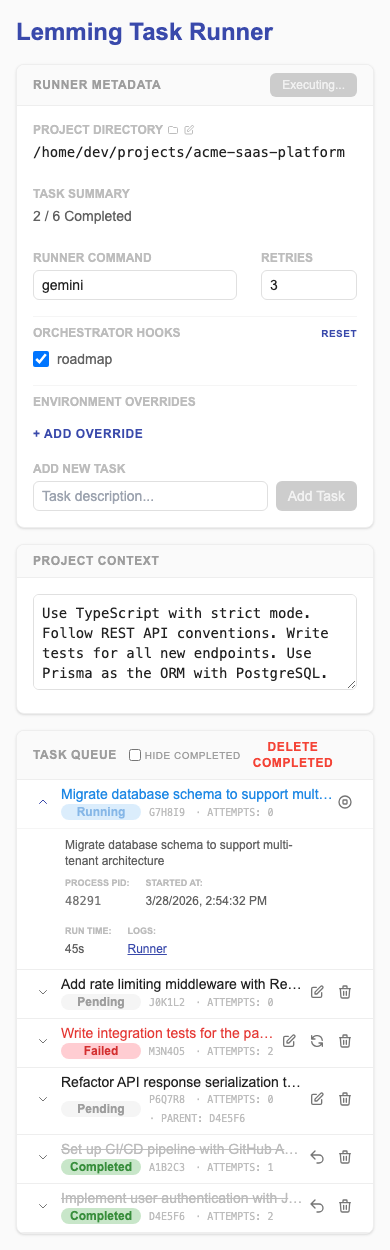
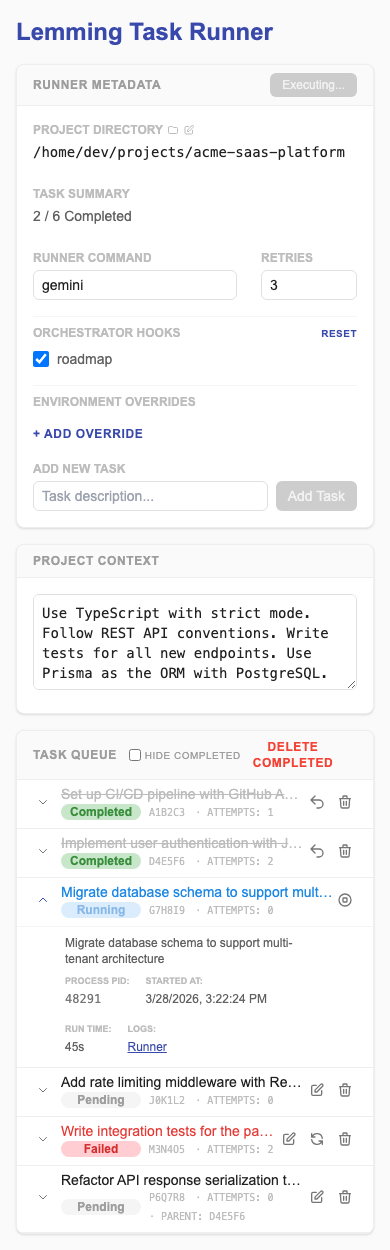
Fix: Revert task sorting to group uncompleted first (newer first) and then completed (newer first)

diff --git a/tests/web/dashboard.test.js b/tests/web/dashboard.test.js
@@ -48,12 +48,7 @@ const createInitialState = (overrides = {}) => {
     },
     filteredTasks: $computed(() => {
       const ts = tasks;
-      const inProgress = ts.filter((t) => t.status === "in_progress");
-      const pending = ts.filter((t) => t.status === "pending");
-      const completed = ts
-        .filter((t) => t.status === "completed" && !hideCompleted)
-        .sort((a, b) => (a.completed_at || 0) - (b.completed_at || 0));
-      return [...inProgress, ...pending, ...completed];
+      return ts.filter((t) => t.status !== "completed" || !hideCompleted);
     }),
     ...overrides,
   };
@@ -63,16 +58,12 @@ const $computed = (fn) => fn();
 
 describe("Lemming Web Dashboard", () => {
   test("tasks are sorted correctly", async () => {
+    // These should be passed in the order the backend would return them:
+    // Uncompleted (newer first), then Completed (newest completion first).
     const tasks = [
-      {
-        id: "c1",
-        description: "Oldest Completed",
-        status: "completed",
-        completed_at: 1000,
-        outcomes: [],
-      },
-      { id: "p1", description: "Pending 1", status: "pending", outcomes: [] },
+      { id: "p2", description: "Pending 2", status: "pending", outcomes: [] },
       { id: "r1", description: "Running", status: "in_progress", outcomes: [] },
+      { id: "p1", description: "Pending 1", status: "pending", outcomes: [] },
       {
         id: "c2",
         description: "Newest Completed",
@@ -80,7 +71,13 @@ describe("Lemming Web Dashboard", () => {
         completed_at: 2000,
         outcomes: [],
       },
-      { id: "p2", description: "Pending 2", status: "pending", outcomes: [] },
+      {
+        id: "c1",
+        description: "Oldest Completed",
+        status: "completed",
+        completed_at: 1000,
+        outcomes: [],
+      },
     ];
 
     const renderer = new Renderer(
@@ -103,11 +100,12 @@ describe("Lemming Web Dashboard", () => {
       return p ? p.textContent.trim() : "";
     });
 
-    assert.strictEqual(descriptions[0], "Running");
-    assert.strictEqual(descriptions[1], "Pending 1");
-    assert.strictEqual(descriptions[2], "Pending 2");
-    assert.strictEqual(descriptions[3], "Oldest Completed");
-    assert.strictEqual(descriptions[4], "Newest Completed");
+    // Check they are in the order we provided
+    assert.strictEqual(descriptions[0], "Pending 2");
+    assert.strictEqual(descriptions[1], "Running");
+    assert.strictEqual(descriptions[2], "Pending 1");
+    assert.strictEqual(descriptions[3], "Newest Completed");
+    assert.strictEqual(descriptions[4], "Oldest Completed");
   });
 
   test("initial state", async () => {

diff --git a/src/lemming/web/index.js b/src/lemming/web/index.js
@@ -75,12 +75,7 @@
 
       $.filteredTasks = $.$computed(($) => {
         const ts = $.tasks;
-        const inProgress = ts.filter((t) => t.status === "in_progress");
-        const pending = ts.filter((t) => t.status === "pending");
-        const completed = ts
-          .filter((t) => t.status === "completed" && !$.hideCompleted)
-          .sort((a, b) => (a.completed_at || 0) - (b.completed_at || 0));
-        return [...inProgress, ...pending, ...completed];
+        return ts.filter((t) => t.status !== "completed" || !$.hideCompleted);
       });
 
       // --- Utilities ---

diff --git a/tests/main_test.py b/tests/main_test.py
@@ -284,13 +284,17 @@ class TestLemming(unittest.TestCase):
             main.cli, self.base_args + ["add", "Description", "-f", "desc.txt"]
         )
         self.assertEqual(result.exit_code, 1)
-        self.assertIn("Error: Cannot provide both description and --file.", result.output)
+        self.assertIn(
+            "Error: Cannot provide both description and --file.", result.output
+        )
         os.remove("desc.txt")
 
     def test_add_task_neither_error(self):
         result = self.cli_runner.invoke(main.cli, self.base_args + ["add"])
         self.assertEqual(result.exit_code, 1)
-        self.assertIn("Error: Must provide either description or --file.", result.output)
+        self.assertIn(
+            "Error: Must provide either description or --file.", result.output
+        )
 
     def test_edit_task_file(self):
         with open("new_desc.txt", "w") as f:
@@ -312,7 +316,9 @@ class TestLemming(unittest.TestCase):
             + ["edit", "12345678", "--description", "Desc", "-f", "new_desc.txt"],
         )
         self.assertEqual(result.exit_code, 1)
-        self.assertIn("Error: Cannot provide both description and --file.", result.output)
+        self.assertIn(
+            "Error: Cannot provide both description and --file.", result.output
+        )
         os.remove("new_desc.txt")
 
     def test_outcome_add_file(self):
@@ -346,7 +352,9 @@ class TestLemming(unittest.TestCase):
             + ["outcome", "add", "12345678", "Desc", "-f", "outcome.txt"],
         )
         self.assertEqual(result.exit_code, 1)
-        self.assertIn("Error: Cannot provide both outcome text and --file.", result.output)
+        self.assertIn(
+            "Error: Cannot provide both outcome text and --file.", result.output
+        )
         os.remove("outcome.txt")
 
     def test_outcome_add_neither_error(self):
@@ -354,7 +362,9 @@ class TestLemming(unittest.TestCase):
             main.cli, self.base_args + ["outcome", "add", "12345678"]
         )
         self.assertEqual(result.exit_code, 1)
-        self.assertIn("Error: Must provide either outcome text or --file.", result.output)
+        self.assertIn(
+            "Error: Must provide either outcome text or --file.", result.output
+        )
 
     def test_outcome_edit_file(self):
         data = tasks.load_tasks(self.test_tasks_file)
@@ -385,7 +395,9 @@ class TestLemming(unittest.TestCase):
             + ["outcome", "edit", "12345678", "0", "New Desc", "-f", "edited.txt"],
         )
         self.assertEqual(result.exit_code, 1)
-        self.assertIn("Error: Cannot provide both outcome text and --file.", result.output)
+        self.assertIn(
+            "Error: Cannot provide both outcome text and --file.", result.output
+        )
         os.remove("edited.txt")
 
     def test_outcome_edit_neither_error(self):
@@ -397,7 +409,9 @@ class TestLemming(unittest.TestCase):
             main.cli, self.base_args + ["outcome", "edit", "12345678", "0"]
         )
         self.assertEqual(result.exit_code, 1)
-        self.assertIn("Error: Must provide either outcome text or --file.", result.output)
+        self.assertIn(
+            "Error: Must provide either outcome text or --file.", result.output
+        )
 
     def test_reset_command(self):
         # 1. Add some state
@@ -1036,11 +1050,11 @@ class TestLemming(unittest.TestCase):
         self.assertEqual(result.exit_code, 0)
 
         # Order should be:
-        # 1. In Progress 1 (i1)
-        # 2. Pending 1 (p1)
-        # 3. Pending 2 (p2)
-        # 4. Completed 1 (c1) (earlier completed_at)
-        # 5. Completed 2 (c2) (later completed_at)
+        # 1. Pending 2 (p2) (newest uncompleted)
+        # 2. In Progress 1 (i1)
+        # 3. Pending 1 (p1)
+        # 4. Completed 2 (c2) (newest completed)
+        # 5. Completed 1 (c1)
 
         lines = [
             line.strip()
@@ -1055,7 +1069,7 @@ class TestLemming(unittest.TestCase):
                 task_ids.append(task_id)
 
         # Check expected order
-        expected_order = ["i1", "p1", "p2", "c1", "c2"]
+        expected_order = ["p2", "i1", "p1", "c2", "c1"]
         self.assertEqual(task_ids, expected_order)
 
 

diff --git a/tests/task_sorting_test.py b/tests/task_sorting_test.py
@@ -1,7 +1,7 @@
 from lemming import tasks
 
 
-def test_completed_tasks_sorting_oldest_first(tmp_path):
+def test_completed_tasks_sorting_newest_first(tmp_path):
     tasks_file = tmp_path / "tasks.yml"
 
     # Add three tasks and mark them completed at different times
@@ -26,7 +26,31 @@ def test_completed_tasks_sorting_oldest_first(tmp_path):
     project_data = tasks.get_project_data(tasks_file)
     completed_tasks = [t for t in project_data.tasks if t.status == "completed"]
 
-    # Should be oldest first (chronological)
-    assert completed_tasks[0].description == "Task 1"
+    # Should be newest first
+    assert completed_tasks[0].description == "Task 3"
     assert completed_tasks[1].description == "Task 2"
-    assert completed_tasks[2].description == "Task 3"
+    assert completed_tasks[2].description == "Task 1"
+
+
+def test_uncompleted_tasks_sorting_newest_first(tmp_path):
+    tasks_file = tmp_path / "tasks.yml"
+
+    # Add three tasks, some pending, some in progress
+    tasks.add_task(tasks_file, "Task 1")
+    tasks.add_task(tasks_file, "Task 2")
+    tasks.add_task(tasks_file, "Task 3")
+
+    with tasks.lock_tasks(tasks_file):
+        data = tasks.load_tasks(tasks_file)
+        # Task 2 in progress
+        data.tasks[1].status = "in_progress"
+        tasks.save_tasks(tasks_file, data)
+
+    project_data = tasks.get_project_data(tasks_file)
+    uncompleted_tasks = [t for t in project_data.tasks if t.status != "completed"]
+
+    # Should be newest first (regardless of in_progress status)
+    # T3 (index 2), T2 (index 1), T1 (index 0)
+    assert uncompleted_tasks[0].description == "Task 3"
+    assert uncompleted_tasks[1].description == "Task 2"
+    assert uncompleted_tasks[2].description == "Task 1"

diff --git a/src/lemming/tasks.py b/src/lemming/tasks.py
@@ -233,13 +233,16 @@ def get_project_data(tasks_file: pathlib.Path) -> ProjectData:
             if not is_stale:
                 loop_running = True
 
-    # Sort tasks: in_progress, then pending, then completed (oldest first)
-    in_progress = [t for t in data.tasks if t.status == "in_progress"]
-    pending = [t for t in data.tasks if t.status == "pending"]
-    completed = [t for t in data.tasks if t.status == "completed"]
-    completed.sort(key=lambda x: x.completed_at or 0)
+    # Sort tasks: uncompleted (in_progress + pending) first, then completed.
+    # Within each group, newer first, then older.
+    uncompleted = [t for t in data.tasks if t.status != "completed"]
+    # We use reverse() because data.tasks is already in creation order (oldest first).
+    uncompleted.reverse()
 
-    sorted_tasks = in_progress + pending + completed
+    completed = [t for t in data.tasks if t.status == "completed"]
+    completed.sort(key=lambda x: x.completed_at or 0, reverse=True)
+
+    sorted_tasks = uncompleted + completed
 
     return ProjectData(
         context=data.context,

diff --git a/tests/tasks_test.py b/tests/tasks_test.py
@@ -170,3 +170,25 @@ def test_claim_already_in_progress(tmp_path):
     assert claimed_stale is not None
     assert claimed_stale.pid == 789
     assert claimed_stale.attempts == 2
+
+
+def test_get_project_data_deduplication(tmp_path):
+    tasks_file = tmp_path / "tasks.yml"
+
+    # Create a corrupted roadmap with duplicate task IDs
+    data = tasks.Roadmap(
+        context="test",
+        tasks=[
+            tasks.Task(id="1", description="Task 1", status="pending"),
+            tasks.Task(id="1", description="Task 1 Duplicate", status="pending"),
+            tasks.Task(id="2", description="Task 2", status="pending"),
+        ],
+    )
+    tasks.save_tasks(tasks_file, data)
+
+    project_data = tasks.get_project_data(tasks_file)
+
+    # Should only have two unique tasks, newer first
+    assert len(project_data.tasks) == 2
+    assert project_data.tasks[0].description == "Task 2"
+    assert project_data.tasks[1].description == "Task 1"
